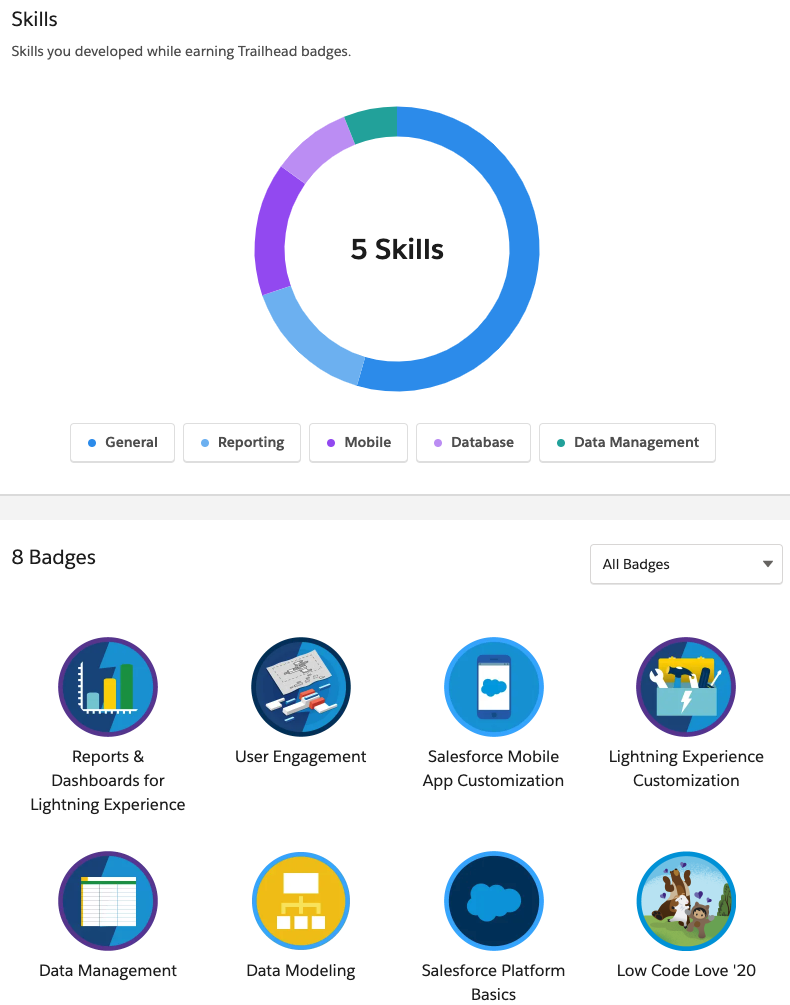
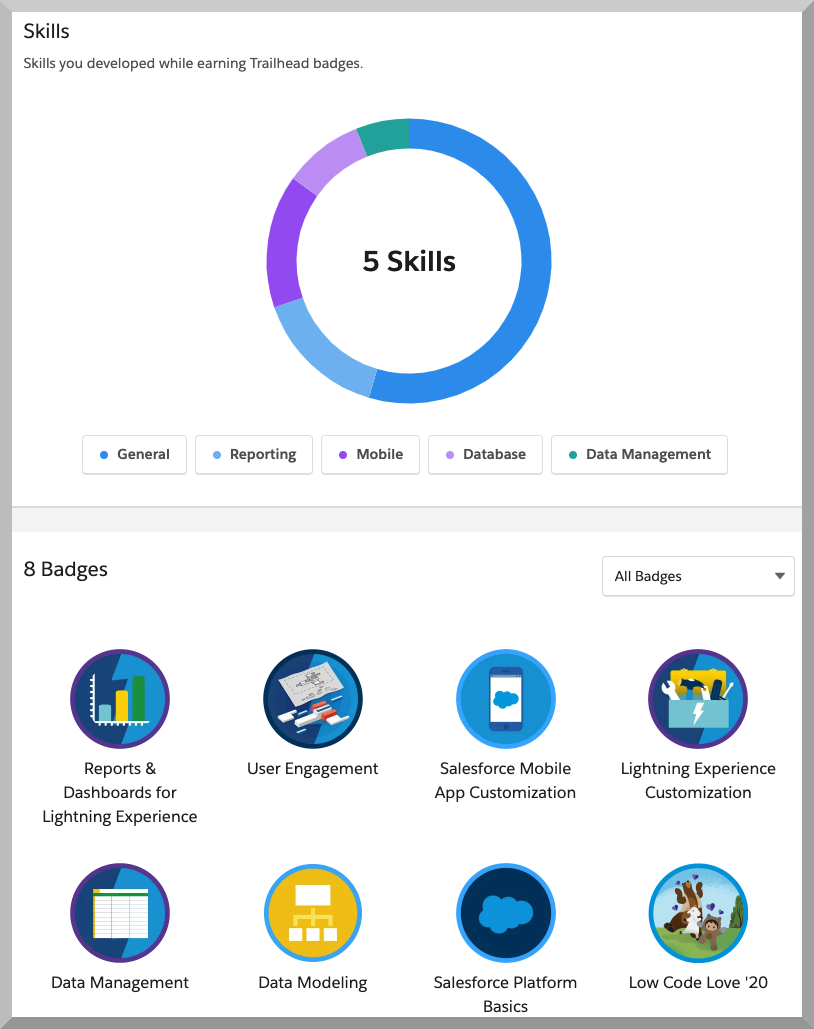
added border.  Year 2020 looks complete.

diff --git a/public/html/certificates.html b/public/html/certificates.html
@@ -47,8 +47,8 @@
         <!--BELOW:  The content fades in and out-->
         <div class="tab-content">
             <div id="home" class="tab-pane fade in active">
-              <h3 style="margin-top: .75em;">2020</h3>
-              <p>Certificates for the year 2020</p>
+              <h3 style="margin-top: .75em;"><i>Certificates for the year 2020</i></h3>
+              <p>&nbsp;</p>
 
               <div class="row">
                   <!---->
@@ -67,10 +67,9 @@
                   <div class="col-md-6">
                     <h3><b><u>Coursera</b></u></h3>
                       <div class="card">
-                        <h3 class="card-title"><b><u>Coursera</b></u></h3>
-                          <img src="../images/certifications/Coursera_CYRR5YAKURJB.pdf" class="card-img-top" alt="Coursera Certificate Display" style="width: 100%;">
+                          <img src="../images/certifications/Coursera.PNG" class="card-img-top" alt="Coursera Certificate Display" style="width: 100%;">
                           <div class="container">
-                            <h4 class="card-title"><b><u>Coursera</b></u></h4>
+                            <h4 class="card-title"><b><u>Coursera - Foundations for Big Data Analysis with SQL</b></u></h4>
                             <p class="card-text">Certificate completed on Coursera by Cloudera while intern at Soft People Tech in Redmond WA.</p>
                           </div>
                           <a href="https://www.coursera.org/account/accomplishments/certificate/CYRR5YAKURJB" class="btn btn-primary">Cloudera Certificate</a>
